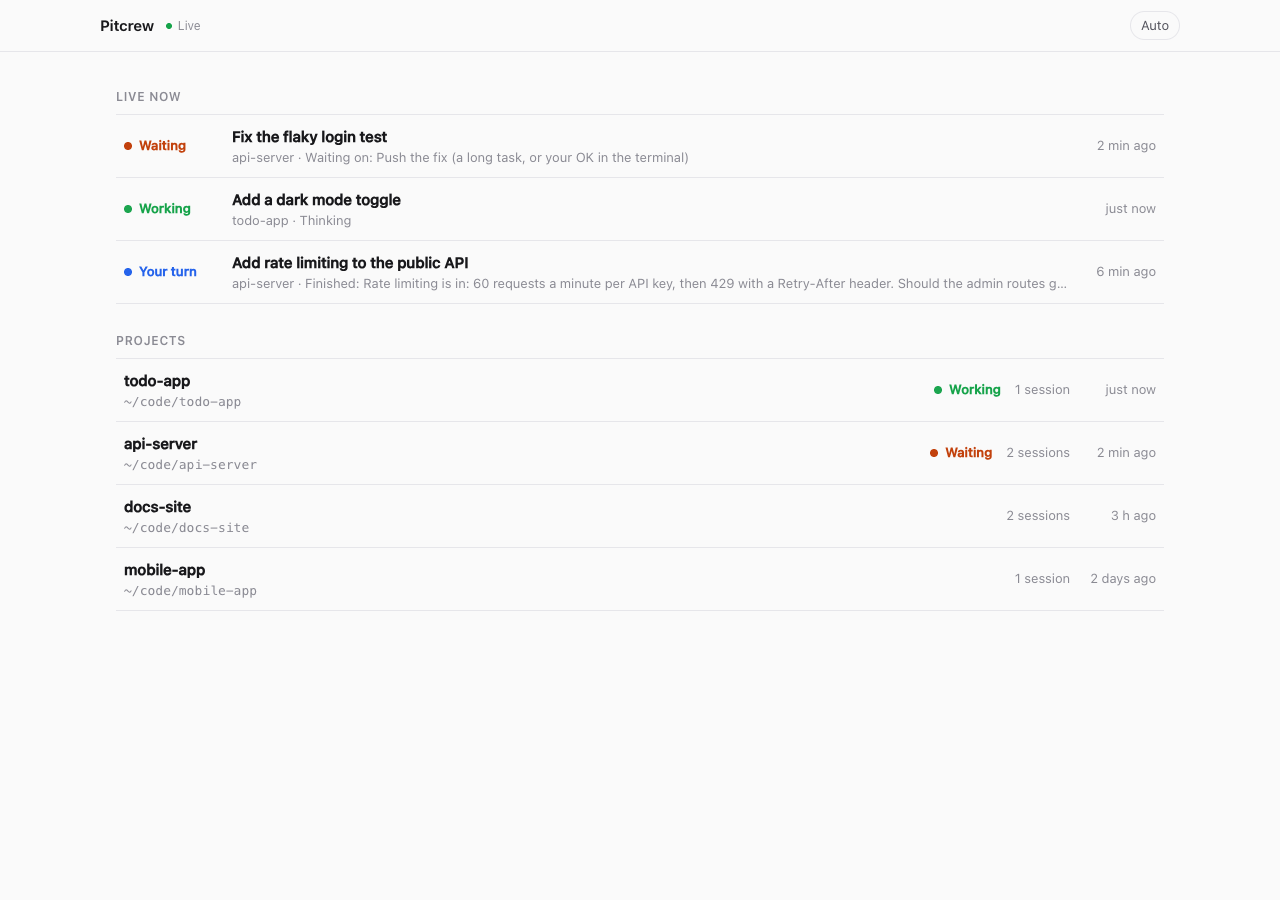
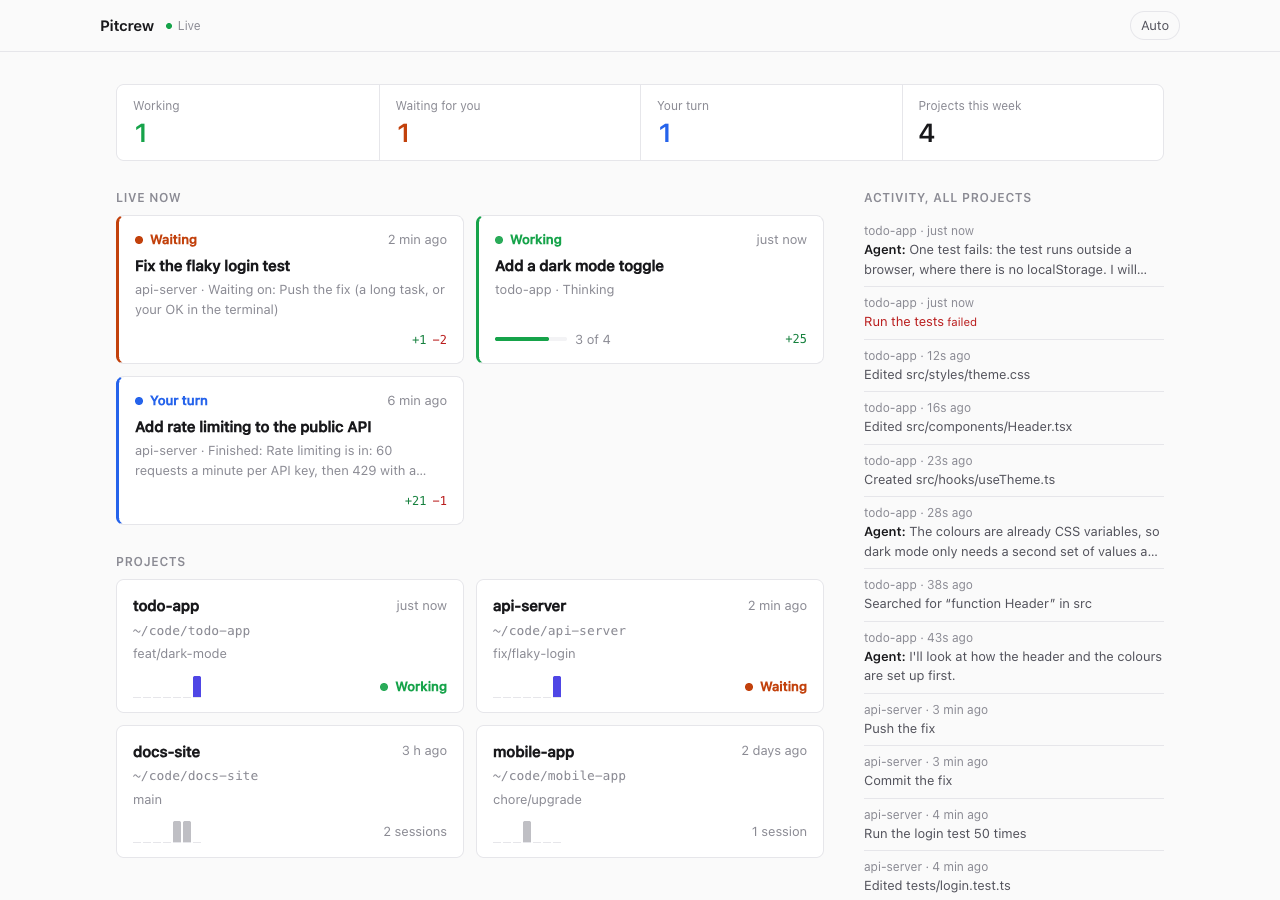
Update the README for the new home page (#3)

diff --git a/README.md b/README.md
@@ -22,7 +22,7 @@ It prints a link with a key in it and opens it in your browser. (On npm soon as 
 
 ## What you see
 
-**The pit wall.** Agents that are working, waiting, or done and waiting for your reply, most urgent first. Below them, every project that has sessions, with its real folder.
+**The pit wall.** How many agents are working, waiting for you, or done and waiting for your reply. Each live session as a card with its plan progress and lines changed, most urgent first. Every project with its branch, uncommitted files and the last seven days of activity. On the right, a feed of what every agent did, across all projects.
 
 **A session.** The whole run in plain words: your messages, the agent's replies, each file it read, each edit with its diff, each command with its output. The plan the agent is following and what it is doing right now stay beside the timeline while you scroll. Long sessions open at the latest step and load earlier steps on request, even when the session file is over a gigabyte.
 
